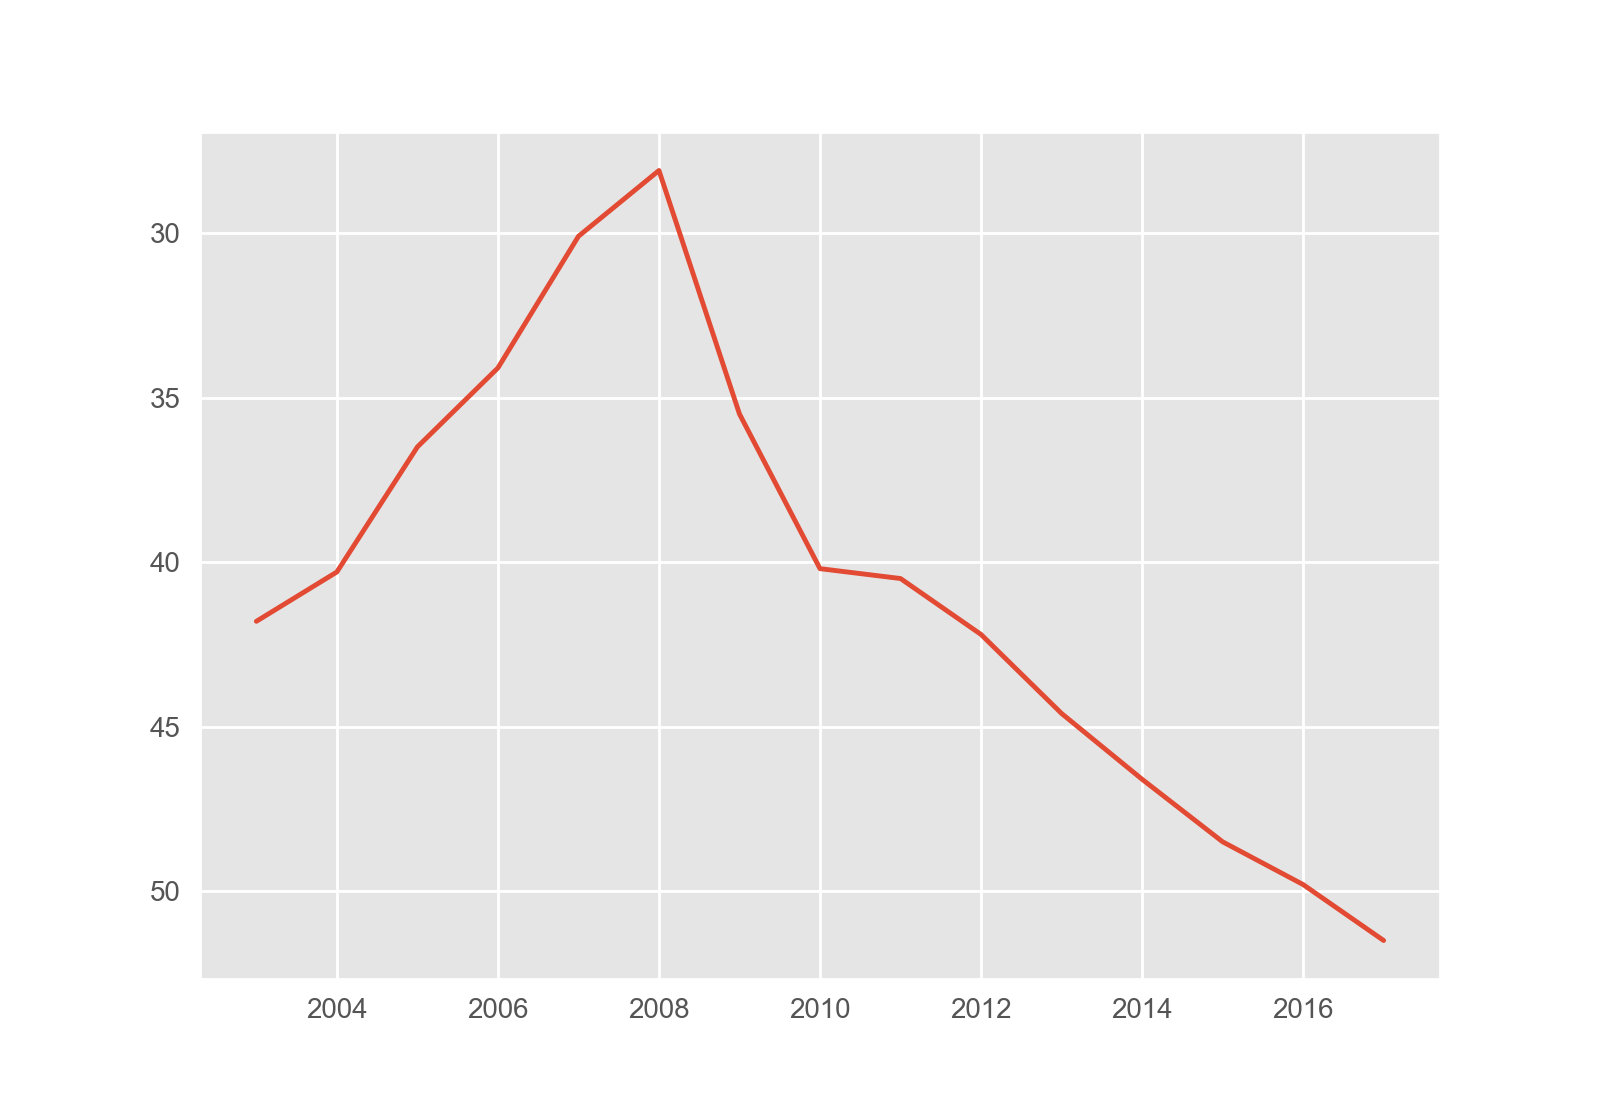
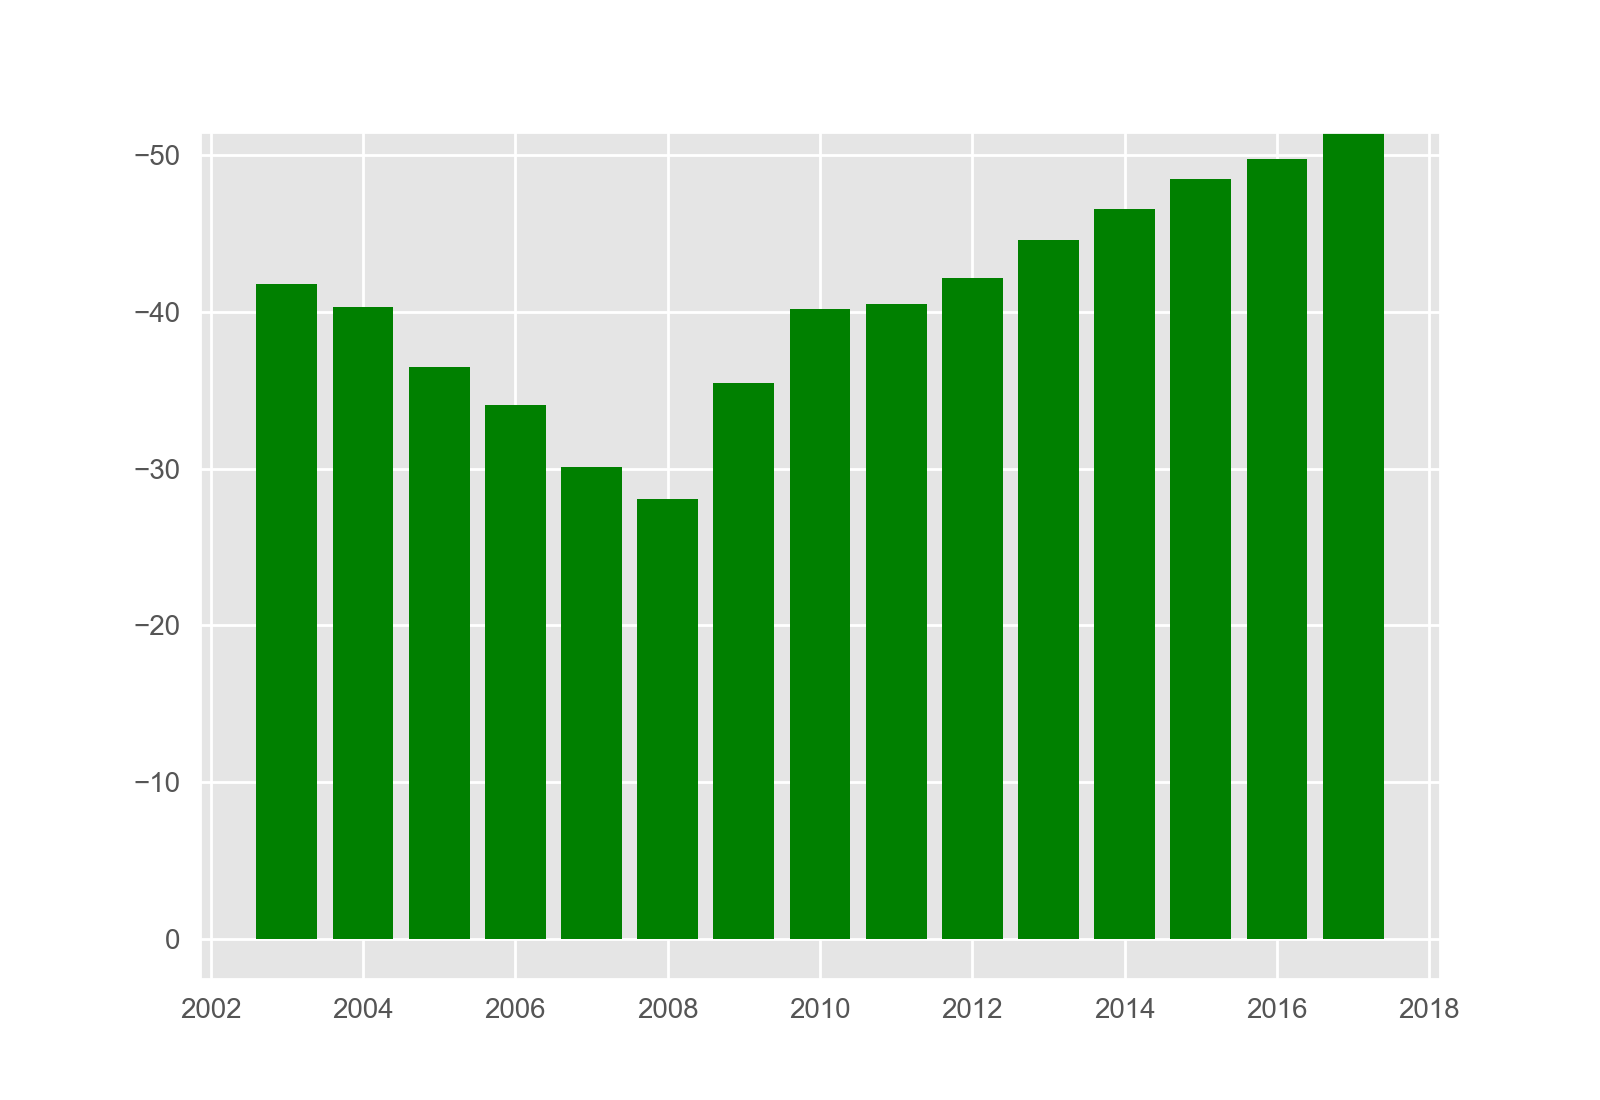
daily work

diff --git a/Assignment 1/3.py b/Assignment 1/3.py
@@ -32,11 +32,18 @@ def overestimate_debt(debt):
     plt.savefig('results/lying_debt.png')
 
 def underestimate_debt(debt):
-    plt.plot(debt.iloc[10:26][' debt / GDP %'])
-    plt.gca().invert_yaxis()
-    plt.savefig('results/lying_against_debt.png')
-    plt.xlabel('Year')
+    height = (100 - debt.iloc[10:25][' debt / GDP %'])+100
+    print(height)
+    plt.bar(debt.index.values[10:25],height,
+                color = 'g')
     plt.ylabel('debt / GDP %')
+    plt.xlabel('Year')
+    newYax = [tick for tick in debt.iloc[10:25][' debt / GDP %']]
+    plt.axis([2002,2018,142,173.8])
+    plt.yticks([150, 159.5 , 173.8],['50','40','30'])
+    plt.yticks(['0', '10','20', '30', '40', '50'])   
+    plt.savefig('results/lying_against_debt.png')
+    
 
 def realistic_debt(debt):
     plt.plot(debt.iloc[0:23][' debt / GDP %'],'go-',label = 'historial data')
@@ -84,11 +91,11 @@ if __name__ == "__main__":
               skiprows = [1,2],header = 0,index_col = 0)
     style.use('ggplot')
 #    overestimate_debt(debt)
-#    underestimate_debt(debt)
+    underestimate_debt(debt)
 #    realistic_debt(debt)
     wine = pd.read_csv('input data/wine.data',header = None)
     wine.columns = ['wine','alcohol','malic acid','ash','alcalinity of ash',
                           'magnesium','total phenols','flavonoids','nonflavonoid phenols',
                           'proanthocyanins','color intensity','hue','OD280/OD315 of diluted wines',
                           'Proline']
-    trellis_visualization(wine)
+#    trellis_visualization(wine)
